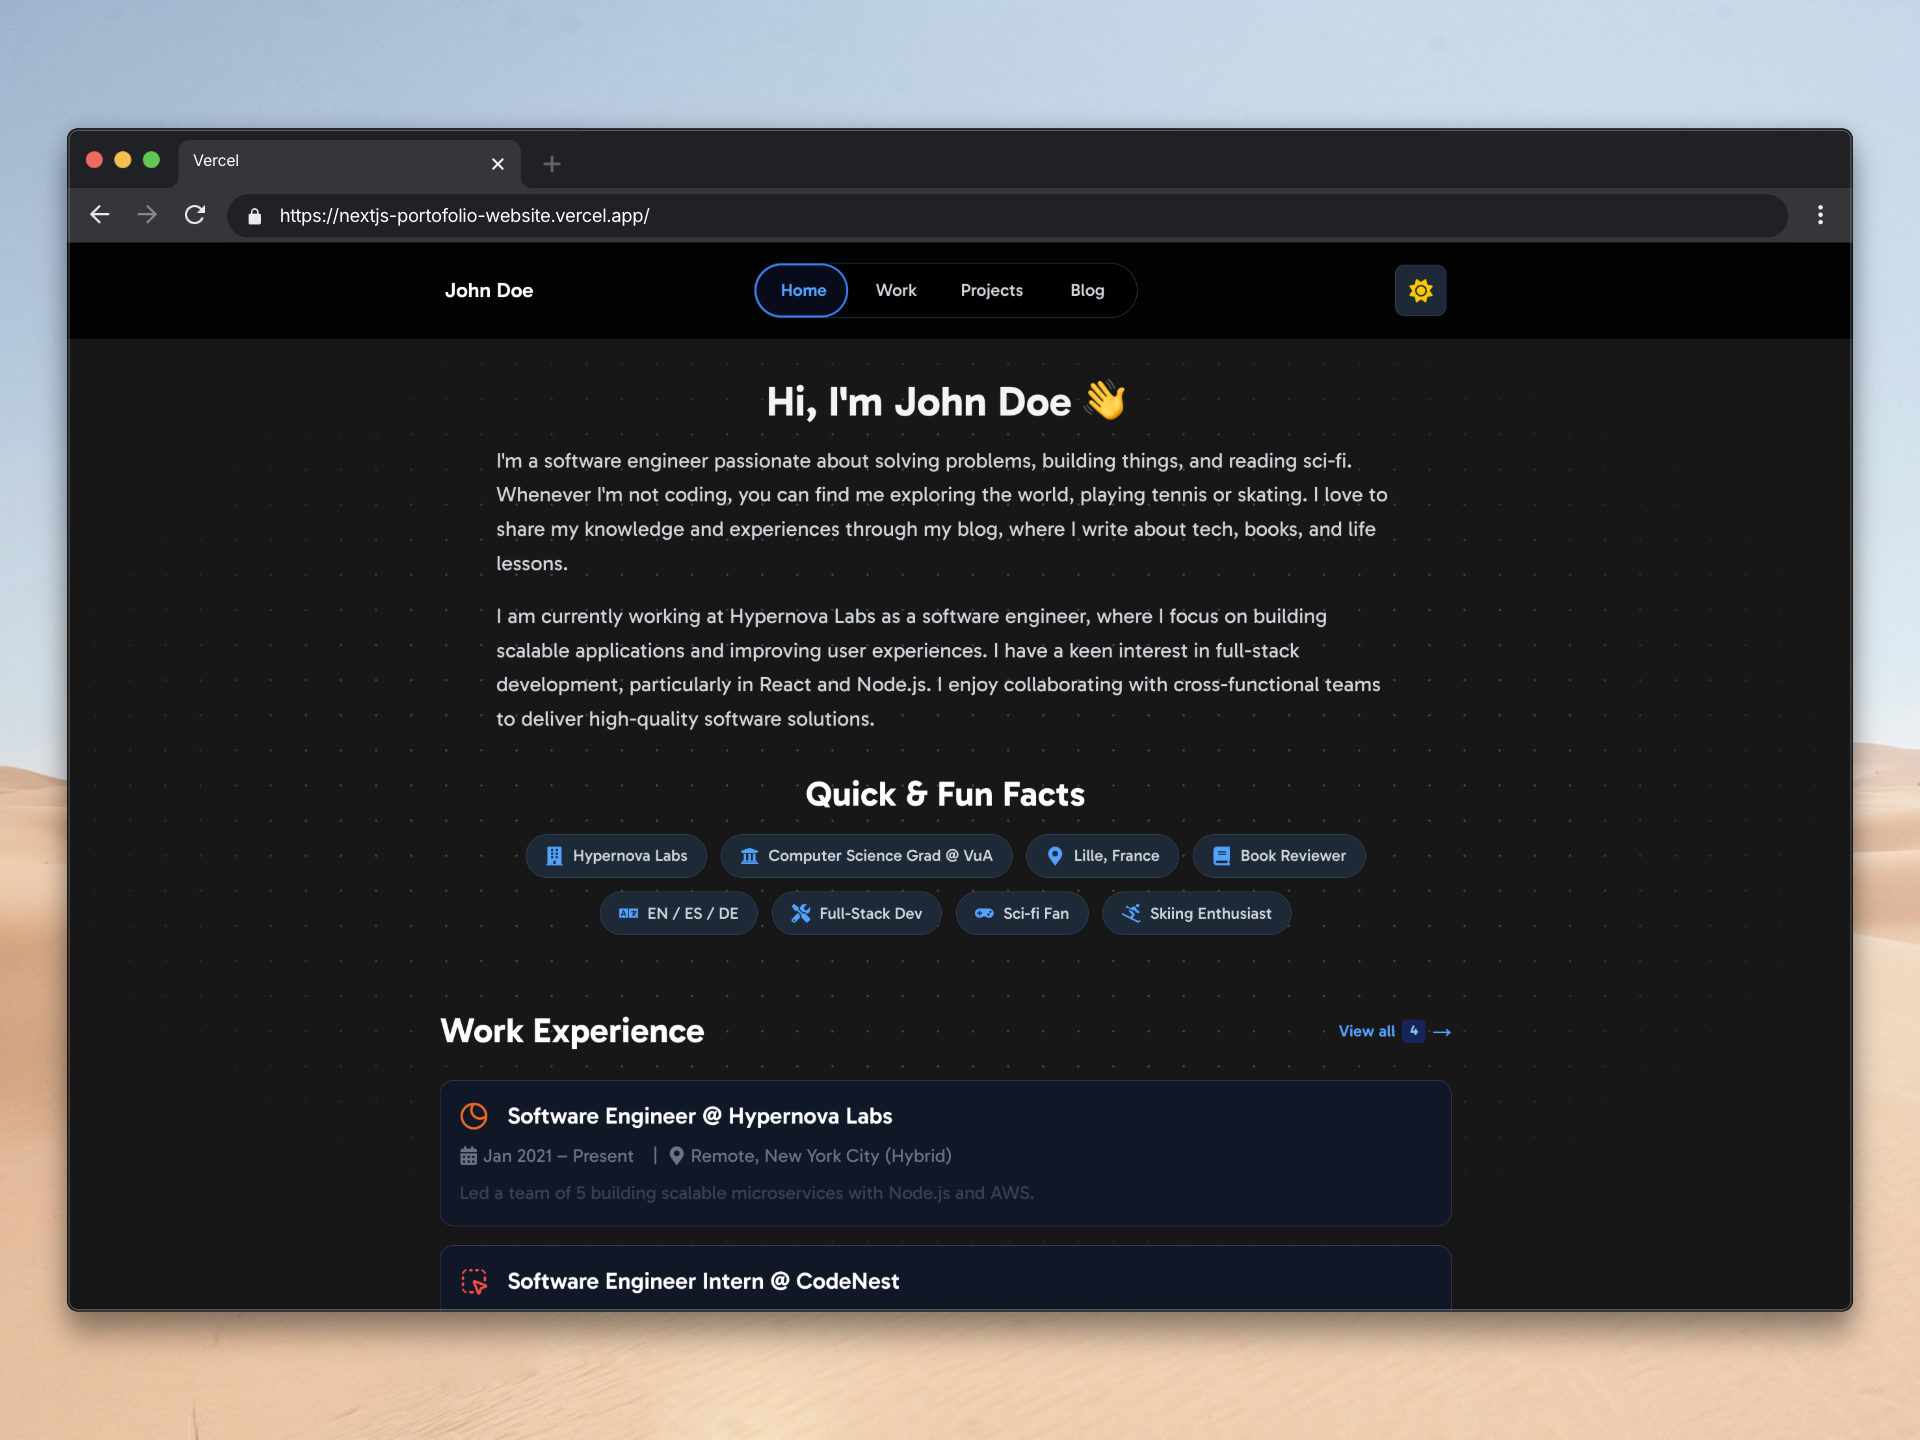
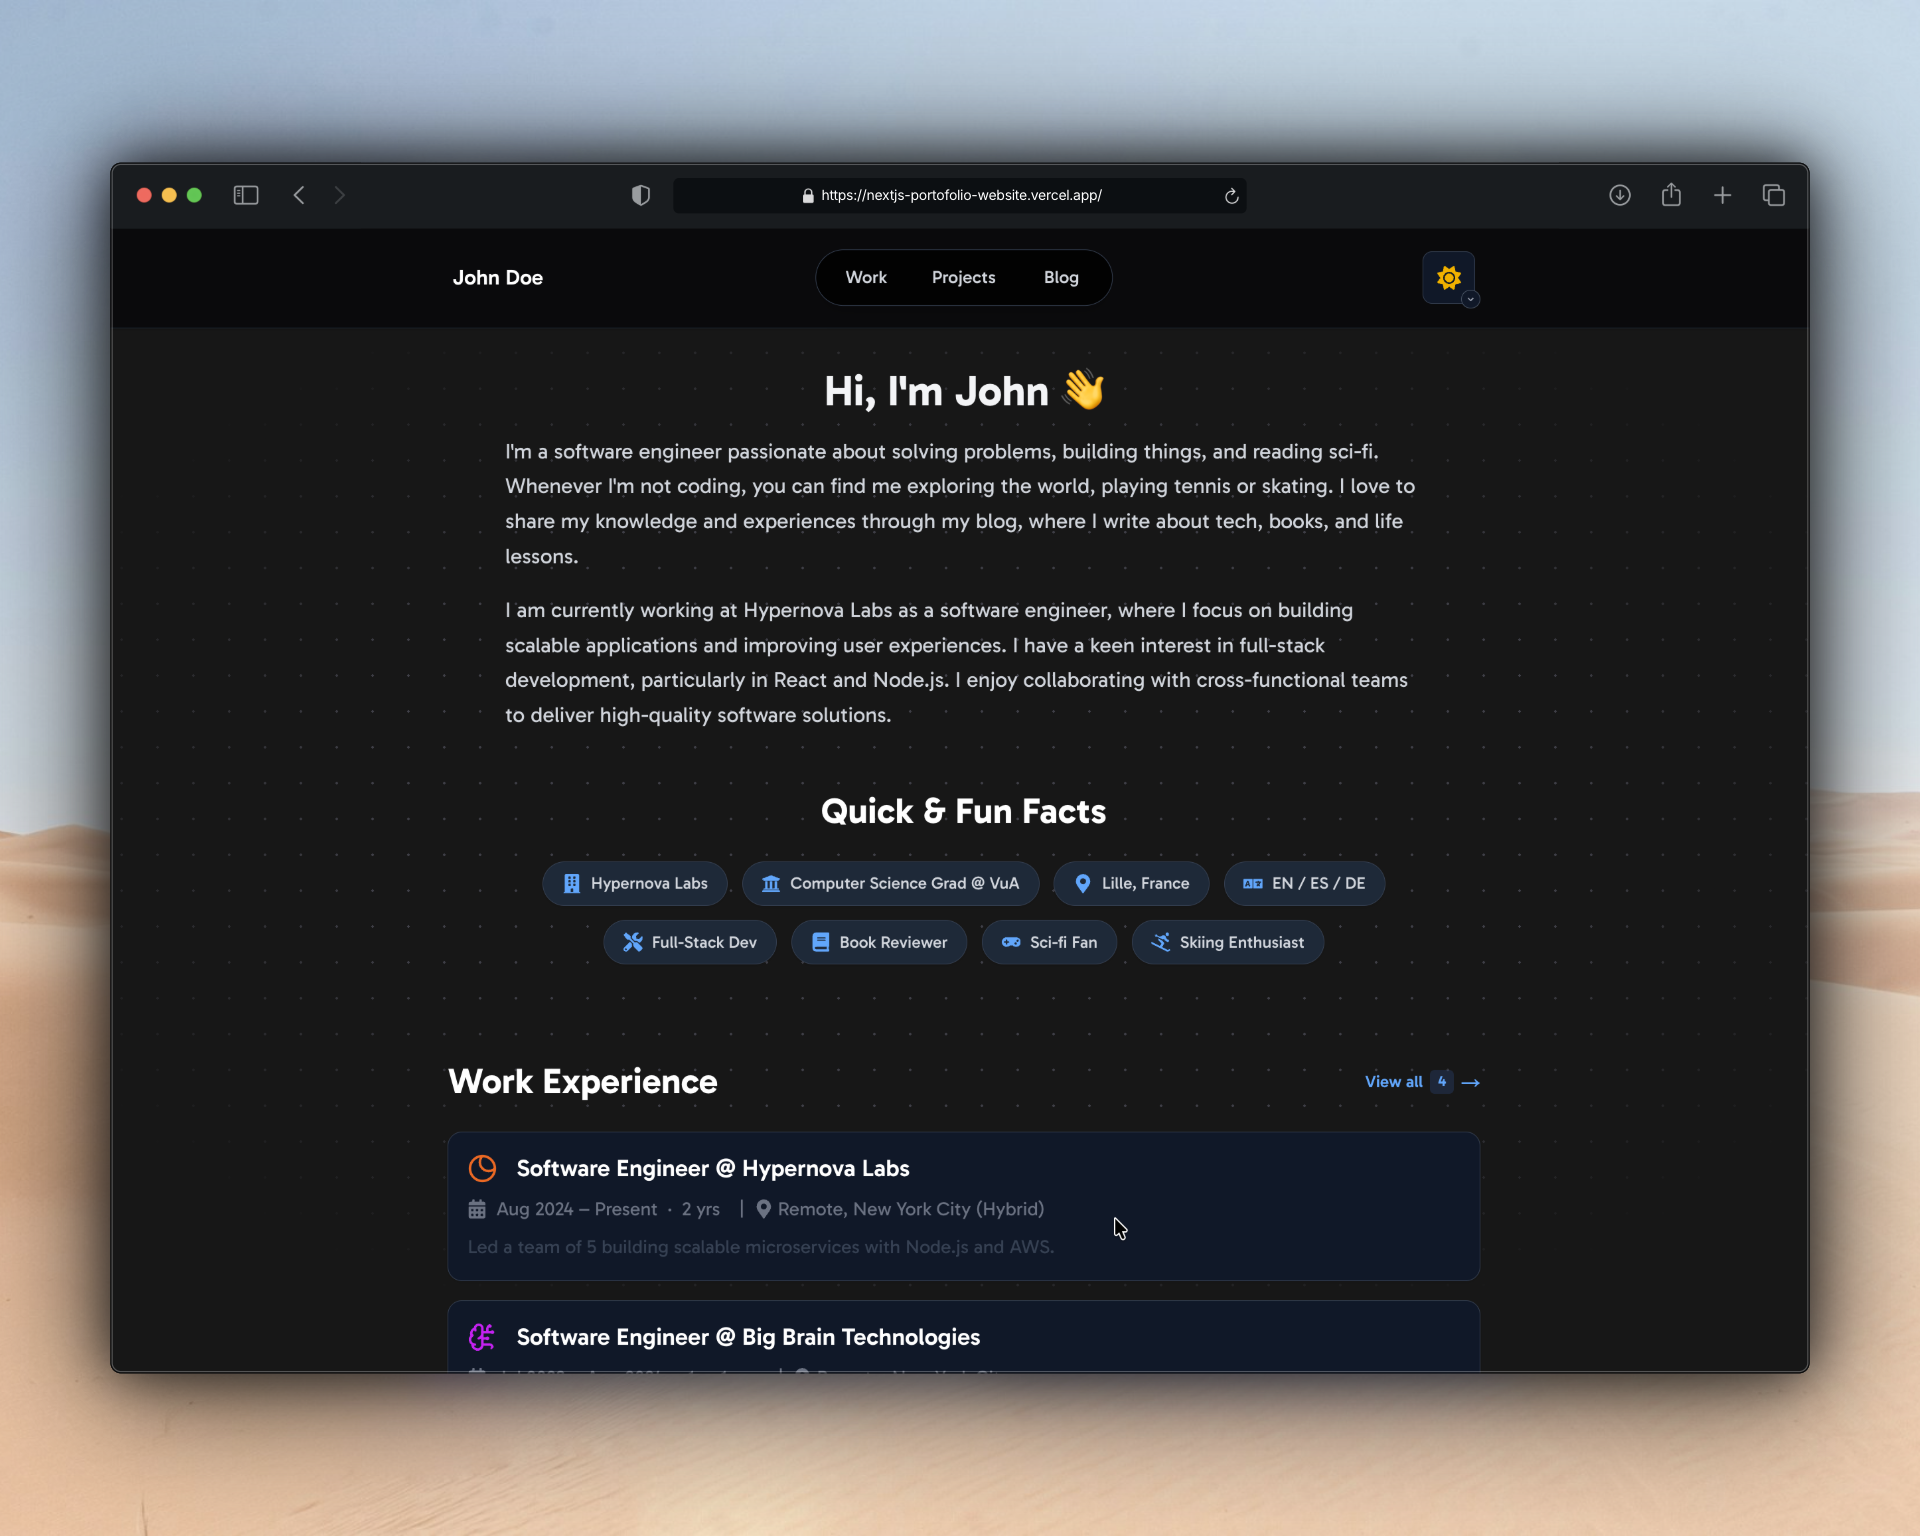
feat: inspo updates (#107)
* feat: update BlogPost.tsx with better spacing

* feat: remove "home" link from desktop nav menu

* chore: update screen shots

* chore: small og image removal

* chore: small padding change

* feat: remove tag on projecttile

* fix: inconsistency with active links

Changed region(s): [[0.0, 0.0312, 1.0, 0.9688], [0.25, 0.25, 0.75, 0.6562], [0.6875, 0.6875, 0.7812, 0.75]]

diff --git a/tests/components/NavigationMenu.test.tsx b/tests/components/NavigationMenu.test.tsx
@@ -1,18 +1,24 @@
 import { render, screen } from "@testing-library/react"
-import { describe, it, expect, vi } from "vitest"
+import { beforeEach, describe, expect, it, vi } from "vitest"
 import NavigationMenu from "@/components/NavigationMenu"
-import { navItems } from "@/lib/constants"
+import { desktopNavItems } from "@/lib/constants"
+
+const mockUsePathname = vi.fn(() => "/")
 
 // Mock usePathname to return different values for different tests
 vi.mock("next/navigation", async () => {
   const actual = await vi.importActual("next/navigation")
   return {
     ...actual,
-    usePathname: vi.fn(() => "/"),
+    usePathname: () => mockUsePathname(),
   }
 })
 
 describe("NavigationMenu", () => {
+  beforeEach(() => {
+    mockUsePathname.mockReturnValue("/")
+  })
+
   it("renders the navigation menu", () => {
     render(<NavigationMenu />)
 
@@ -20,10 +26,10 @@ describe("NavigationMenu", () => {
     expect(nav).toBeDefined()
   })
 
-  it("renders all navigation items from navItems constant", () => {
+  it("renders all navigation items from desktopNavItems constant", () => {
     render(<NavigationMenu />)
 
-    navItems.forEach(({ name }) => {
+    desktopNavItems.forEach(({ name }) => {
       expect(screen.getByText(name)).toBeDefined()
     })
   })
@@ -31,7 +37,7 @@ describe("NavigationMenu", () => {
   it("renders navigation links with correct hrefs", () => {
     render(<NavigationMenu />)
 
-    navItems.forEach(({ name, path }) => {
+    desktopNavItems.forEach(({ name, path }) => {
       const link = screen.getByText(name).closest("a")
       expect(link?.getAttribute("href")).toBe(path)
     })
@@ -41,23 +47,47 @@ describe("NavigationMenu", () => {
     render(<NavigationMenu />)
 
     const links = screen.getAllByRole("link")
-    expect(links.length).toBe(navItems.length)
+    expect(links.length).toBe(desktopNavItems.length)
+  })
+
+  it("does not mark any item as active on the home page", () => {
+    render(<NavigationMenu />)
+
+    // "Home" isn't part of the desktop nav (the header's name link covers it), so no pill
+    // item should be active while on "/"
+    const links = screen.getAllByRole("link")
+    const currentPageLinks = links.filter(link => link.getAttribute("aria-current") === "page")
+
+    expect(currentPageLinks.length).toBe(0)
   })
 
   it("marks the current page with aria-current='page'", () => {
+    mockUsePathname.mockReturnValue("/work")
     render(<NavigationMenu />)
 
-    // With pathname mocked to "/", Home should be active
-    const homeLink = screen.getByText("Home").closest("a")
-    expect(homeLink?.getAttribute("aria-current")).toBe("page")
+    const workLink = screen.getByText("Work").closest("a")
+    expect(workLink?.getAttribute("aria-current")).toBe("page")
   })
 
   it("only marks one item as current page", () => {
+    mockUsePathname.mockReturnValue("/work")
     render(<NavigationMenu />)
 
     const links = screen.getAllByRole("link")
     const currentPageLinks = links.filter(link => link.getAttribute("aria-current") === "page")
 
+    expect(currentPageLinks.length).toBe(1)
+  })
+
+  it("marks the parent item as active for a nested subroute", () => {
+    mockUsePathname.mockReturnValue("/work/foo")
+    render(<NavigationMenu />)
+
+    const workLink = screen.getByText("Work").closest("a")
+    expect(workLink?.getAttribute("aria-current")).toBe("page")
+
+    const links = screen.getAllByRole("link")
+    const currentPageLinks = links.filter(link => link.getAttribute("aria-current") === "page")
     expect(currentPageLinks.length).toBe(1)
   })
 

diff --git a/src/components/NavigationMenu.tsx b/src/components/NavigationMenu.tsx
@@ -2,9 +2,14 @@
 
 import Link from "next/link"
 import { usePathname } from "next/navigation"
-import { useEffect, useState } from "react"
-import { navItems } from "@/lib/constants"
+import { useEffect, useRef, useState } from "react"
+import { desktopNavItems } from "@/lib/constants"
 import { cn } from "@/lib/utils"
+
+// A nav item is active for its exact path or any nested subroute (e.g. "/work" is active
+// for "/work/foo"), so both the sliding indicator and each link's aria-current agree.
+const isPathActive = (pathname: string, path: string) =>
+  pathname === path || pathname.startsWith(path + "/")
 
 /**
  * NavigationMenu component that displays a horizontal navigation menu.
@@ -14,14 +19,21 @@ export default function NavigationMenu() {
   const pathname = usePathname()
 
   const getActiveIndex = (p: string) =>
-    navItems.findIndex(({ path }) =>
-      path === "/" ? p === "/" : p === path || p.startsWith(path + "/")
-    )
+    desktopNavItems.findIndex(({ path }) => isPathActive(p, path))
 
   const [activeIndex, setActiveIndex] = useState(() => getActiveIndex(pathname))
+  // Sliding the indicator only makes sense between two visible pill positions. Jumping to
+  // or from "no active item" (e.g. the home page) should just pop in/out instead of
+  // animating in from the edge, so track that transition to disable it for a single update.
+  const [instant, setInstant] = useState(false)
+  const prevIndexRef = useRef(activeIndex)
 
   useEffect(() => {
-    setActiveIndex(getActiveIndex(pathname))
+    const newIndex = getActiveIndex(pathname)
+    const prevIndex = prevIndexRef.current
+    setInstant(newIndex === -1 || prevIndex === -1)
+    setActiveIndex(newIndex)
+    prevIndexRef.current = newIndex
   }, [pathname])
 
   return (
@@ -39,11 +51,12 @@ export default function NavigationMenu() {
         {/* Animated active indicator as the border only */}
         <div
           className={cn(
-            "absolute top-0 left-0 h-full transition-all duration-300 ease-in-out pointer-events-none z-0 flex",
+            "absolute top-0 left-0 h-full pointer-events-none z-0 flex",
+            instant ? "transition-none" : "transition-all duration-300 ease-in-out",
             "bg-accent-500/10 dark:bg-accent-500/10"
           )}
           style={{
-            width: `calc((100% - ${navItems.length - 1} * 0.120rem) / ${navItems.length})`,
+            width: `calc((100% - ${desktopNavItems.length - 1} * 0.120rem) / ${desktopNavItems.length})`,
             transform: `translateX(calc(${activeIndex} * (100% + 0.125rem)))`,
             border: "2px solid var(--accent-500)",
             borderRadius: "9999px",
@@ -51,8 +64,8 @@ export default function NavigationMenu() {
             opacity: activeIndex === -1 ? 0 : 1,
           }}
         ></div>
-        {navItems.map(({ name, path }, idx) => {
-          const isActive = pathname === path
+        {desktopNavItems.map(({ name, path }, idx) => {
+          const isActive = isPathActive(pathname, path)
           return (
             <li key={name} className="relative z-10 flex justify-center items-center">
               <Link
@@ -72,7 +85,7 @@ export default function NavigationMenu() {
                 {name}
               </Link>
               {/* Invisible divider except last item */}
-              {idx < navItems.length - 1 && (
+              {idx < desktopNavItems.length - 1 && (
                 <span className="mx-0.5 h-5 w-px" aria-hidden="true"></span>
               )}
             </li>

diff --git a/tests/components/Header.test.tsx b/tests/components/Header.test.tsx
@@ -40,7 +40,7 @@ describe("Header", () => {
 
   it("renders navigation items", () => {
     renderHeader()
-    expect(screen.getByText("Home")).toBeDefined()
+    // "Home" isn't part of the desktop nav - the site name/initials link already covers it
     expect(screen.getByText("Work")).toBeDefined()
     expect(screen.getByText("Projects")).toBeDefined()
     expect(screen.getByText("Blog")).toBeDefined()
@@ -48,12 +48,10 @@ describe("Header", () => {
 
   it("renders navigation links with correct hrefs", () => {
     renderHeader()
-    const homeLink = screen.getByText("Home").closest("a")
     const workLink = screen.getByText("Work").closest("a")
     const projectsLink = screen.getByText("Projects").closest("a")
     const blogLink = screen.getByText("Blog").closest("a")
 
-    expect(homeLink?.getAttribute("href")).toBe("/")
     expect(workLink?.getAttribute("href")).toBe("/work")
     expect(projectsLink?.getAttribute("href")).toBe("/projects")
     expect(blogLink?.getAttribute("href")).toBe("/blog")
@@ -82,10 +80,12 @@ describe("Header", () => {
     expect(screen.getByLabelText("Close menu")).toBeDefined()
   })
 
-  it("marks the current page as active in the navigation", () => {
+  it("does not mark any navigation item as active on the home page", () => {
     renderHeader()
-    // With pathname mocked to "/", Home should have aria-current="page"
-    const homeLink = screen.getByText("Home").closest("a")
-    expect(homeLink?.getAttribute("aria-current")).toBe("page")
+    // With pathname mocked to "/", no desktop nav item should be active since "Home" isn't
+    // one of them
+    const links = screen.getAllByRole("link")
+    const currentPageLinks = links.filter(link => link.getAttribute("aria-current") === "page")
+    expect(currentPageLinks.length).toBe(0)
   })
 })

diff --git a/src/components/ProjectTile.tsx b/src/components/ProjectTile.tsx
@@ -1,11 +1,9 @@
 "use client"
 
-import { motion } from "framer-motion"
 import Image from "next/image"
 import Link from "next/link"
 import { FaCalendarAlt } from "react-icons/fa"
 import AnimatedCard from "@/components/AnimatedCard"
-import HoverArrow from "@/components/HoverArrow"
 import TechBadge from "@/components/TechBadge"
 import { MAX_PROJECT_TILE_TECH_BADGES } from "@/lib/constants"
 import { calculateDuration, cn, formatDateRange } from "@/lib/utils"
@@ -65,20 +63,6 @@ export default function ProjectTile({
               "rounded-b-lg border-b border-gray-300 dark:border-gray-700"
             )}
           />
-
-          {/* Overlay on Hover */}
-          <motion.div
-            initial={{ opacity: 0 }}
-            whileHover={{ opacity: 1 }}
-            transition={{ duration: 0.2 }}
-            className={cn(
-              "absolute inset-0 bg-linear-to-t from-accent-800/65 via-accent-600/40 to-transparent",
-              "flex flex-col items-center justify-center gap-2 p-4"
-            )}
-          >
-            <span className="text-white text-lg font-bold tracking-tight">Explore Project</span>
-            <HoverArrow className="text-white text-2xl font-bold" />
-          </motion.div>
         </div>
 
         {/* Title, Description, and Metadata */}

diff --git a/src/components/BlogPost.tsx b/src/components/BlogPost.tsx
@@ -63,13 +63,13 @@ export default function BlogPost({ slug, title, summary, date, tags, readingTime
 
         {/* Date and Reading Time */}
         {date && (
-          <div className="flex flex-wrap items-center gap-x-3 gap-y-1 mt-2 text-sm text-gray-600 dark:text-gray-400">
-            <span ref={dateRef} className="flex items-center gap-1.5 whitespace-nowrap">
+          <div className="flex flex-wrap items-center gap-x-2 gap-y-1 mt-2 text-sm text-gray-600 dark:text-gray-400">
+            <span ref={dateRef} className="flex items-center gap-2 whitespace-nowrap">
               <FaRegCalendarAlt className="w-3.5 h-3.5 shrink-0" />
               <time dateTime={date}>{formatBlogDate(date, "short")}</time>
             </span>
             {readingTime && (
-              <span ref={readingTimeRef} className="flex items-center gap-1.5 whitespace-nowrap">
+              <span ref={readingTimeRef} className="flex items-center gap-2 whitespace-nowrap">
                 <span className={onSameLine ? "visible" : "invisible"} aria-hidden="true">
                   ·
                 </span>

diff --git a/src/lib/constants.ts b/src/lib/constants.ts
@@ -11,6 +11,14 @@ export const navItems = [
 ]
 
 /**
+ * Array of navigation items for the website (i.e. paths/pages to navigate to) that are
+ * displayed in the desktop header navigation menu. Derived from `navItems`, excluding the
+ * "Home" item, since the header's name/initials link already goes home. Deriving it keeps
+ * the desktop menu in sync with `navItems` instead of duplicating and potentially drifting.
+ */
+export const desktopNavItems = navItems.filter(({ path }) => path !== "/")
+
+/**
  * Version of the application from package.json.
  */
 export const appVersion = packageJson.version

diff --git a/tests/components/ProjectTile.test.tsx b/tests/components/ProjectTile.test.tsx
@@ -76,11 +76,6 @@ describe("ProjectTile", () => {
     expect(screen.getByText("+ 2 more")).toBeDefined()
   })
 
-  it("renders the 'Explore Project' overlay text", () => {
-    render(<ProjectTile {...defaultProps} />)
-    expect(screen.getByText("Explore Project")).toBeDefined()
-  })
-
   it("does not render dates when not provided", () => {
     const { container } = render(
       <ProjectTile {...defaultProps} startDate={undefined} endDate={undefined} />

diff --git a/src/components/home/BlogPreview.tsx b/src/components/home/BlogPreview.tsx
@@ -23,7 +23,7 @@ export default function BlogPreview({ blog }: BlogPreviewProps) {
       whileInView="visible"
       variants={fadeUpVariants}
       viewport={{ once: true, margin: "-100px" }}
-      className="mt-20 mb-16"
+      className="mt-20 mb-12"
     >
       <ViewAllHeader title="Recent Blog Posts" pageUrl="/blog" itemCount={blog.length} />
       <div className="@container">

diff --git a/src/data/metadata.ts b/src/data/metadata.ts
@@ -65,7 +65,7 @@ export const siteMetadata: SiteMetadata = {
    *
    * Note: /blog, /projects, and /work always use dynamically generated OG images.
    */
-  ogImage: "/og-image.png",
+  ogImage: null,
 }
 
 /**
